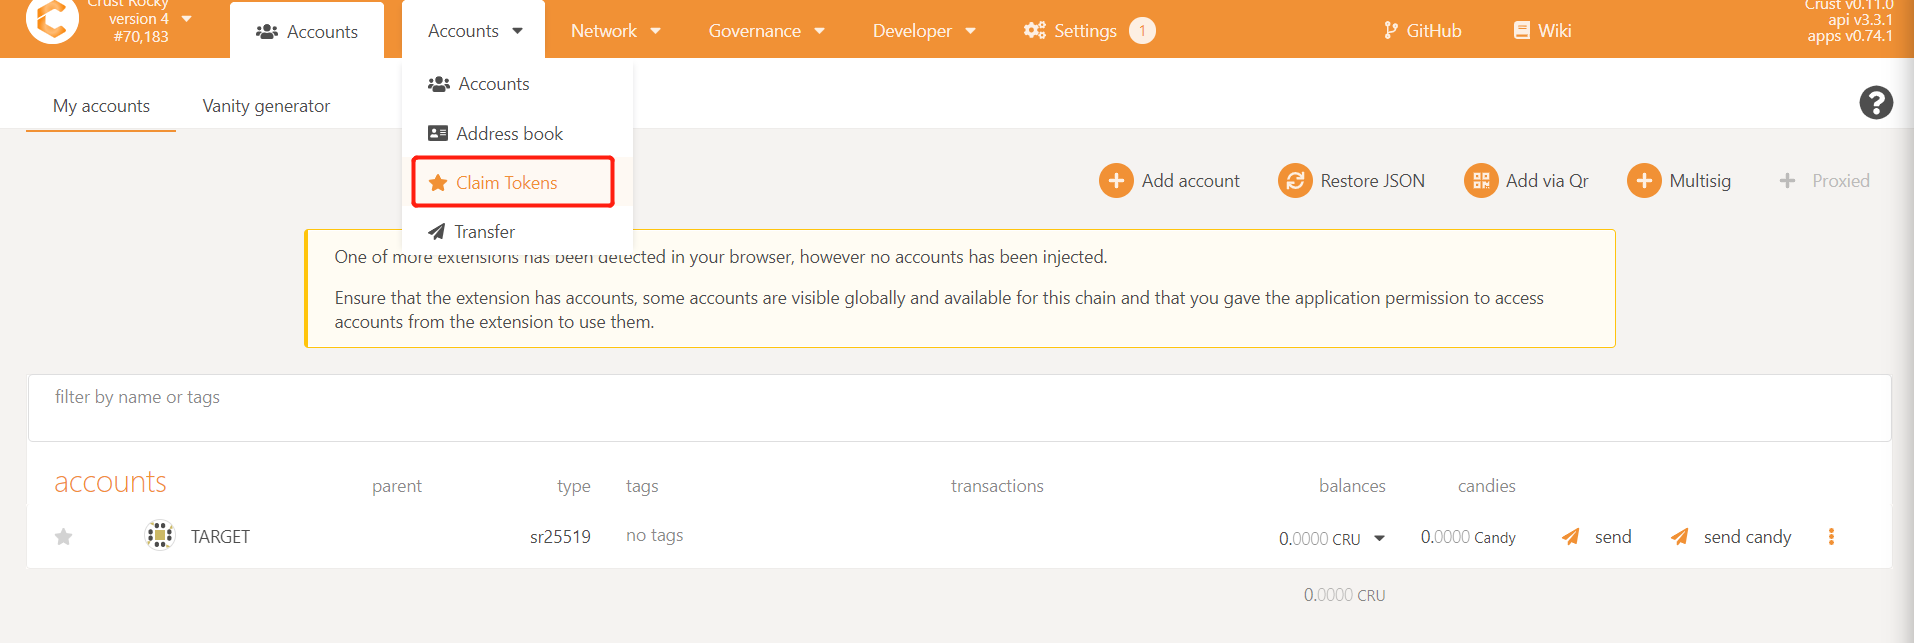
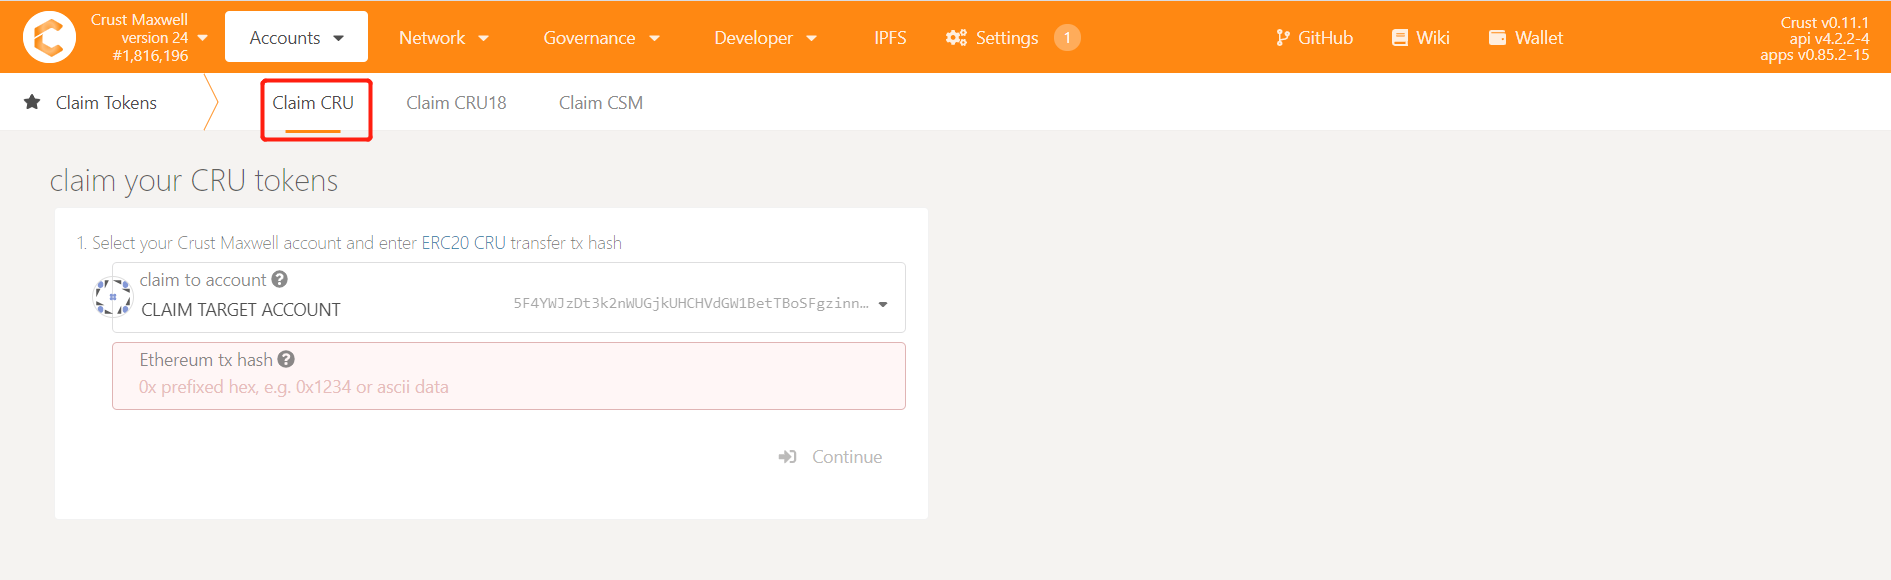
add claim csm and some other update

diff --git a/docs/claimcsm.md b/docs/claimcsm.md
@@ -1,10 +1,10 @@
 ---
-id: claims
-title: Crust Claims
-sidebar_label: Crust Claims
+id: claimCSM
+title: Crust CSM Claim
+sidebar_label: Crust CSM Claim
 ---
 
-If you want to **map ERC20 CRU to Crust Preview Network Maxwell** and participate in the preview network, you follow this tutorial step by step to claim Maxwell CRU.
+CSM (Crust Storage Market) token is designed for Crust Decentralized Storage Market.Serving the Crust storage market,you can map the ERC20 CSM to the Crust Maxwell network in advance for guarantee.Follow this tutorial step by step to claim Maxwell CSM. 
 
 ## Preparation
 
@@ -22,45 +22,45 @@ In order to prevent unknown errors in the claim process, we highly recommend usi
 
 Using an exchange account to sent a transfer (withdrawal) transaction will be invalidated and cause asset loss. <font color='red'>You are responsible for the consequences</font>!
 
-### I. Send CRU Claim Transaction
+### I. Send CSM Claim Transaction
 
-> Please make sure you transfer CRU to the Claim Address, not ETH.
+> Please make sure you transfer CSM to the Claim Address, not ETH or CRU.
 
-First of all, you need to **transfer CRU** to ***Crust Maxwell Claim Address*** on the Ethereum side. Transfering can be done on any wallet side, but you **must pay attention to following points** before transfering CRUs:
+First of all, you need to **transfer CSM** to ***Crust Maxwell Claim Address*** on the Ethereum side. Transfering can be done on any wallet side, but you **must pay attention to following points** before transfering CSM:
 
 1. **⚠ Make sure you have the authority to make signature with the private key of the account (all accounts created by exchanges are not applicable, please use the wallet with private key stored to perform following steps)**
-2. **Confirm the CRU ERC20: [CRUST](https://etherscan.io/token/0x32a7C02e79c4ea1008dD6564b35F131428673c41)**
+2. **Confirm the CSM ERC20: [CSM](https://etherscan.io/token/0x2620638eda99f9e7e902ea24a285456ee9438861)**
 3. ***Crust Maxwell Claim Address***: [0x17a9037cdfb24ffcc13697d03c3bcd4dff34732b](https://etherscan.io/address/0x17a9037cdfb24ffcc13697d03c3bcd4dff34732b)
 
-   ![new claim address](assets/claims/new_claim_addr.png)
+   ![new claim address](assets/claimcsm/new_claim_addr.png)
 
 Please confirm your transfering is successful and make sure it has **at least 6 confirmations**, **copy the hash value of this successful transaction** and do the following steps.
 
 ### II. Verify transactions and bridge tokens
 
-Go to the Claim CRU page of [Crust Apps](https://apps.crust.network/#/claims)
+Go to the Claim CSM page of [Crust Apps](https://apps.crust.network/#/claims/maxwellCsmClaims)
 
-![Apps Claim1](assets/claims/apps_claims1.png)
+![Apps Claim1](assets/claimcsm/apps_claims1.png)
 
 1. Select the account of Maxwell Preview Network that you want to claim
-2. Input the Tx Hash you copied from  [Step I](#i-send-cru-claim-transaction)
+2. Input the Tx Hash you copied from  [Step I](#i-send-csm-claim-transaction)
 3. Click "Continue", this step will wait for a while, backend bridge service will check the legicimacy of your claim transaction. **The network may busy for a while, and you will receive a failure hint, if that, you can wait and try it later.**
 
-![Apps Claims2](assets/claims/apps_claims2.png)
+![Apps Claims2](assets/claimcsm/apps_claims2.png)
 
 ### III. Log in to MyEtherWallet and Connect to your wallet
 
 1. Open [MyEtherWallet](https://www.myetherwallet.com/access-my-wallet):
     - Click 'MEW wallet'
-    - Connect the wallet which you **transfer ERC20 CRU**(The following process will use 'ImToken' and 'MetaMask' as example)
+    - Connect the wallet which you **transfer ERC20 CSM**(The following process will use 'ImToken' and 'MetaMask' as example)
 
-**⚠ Pay Attention, please ensure that the connected wallet address is same as the address where the transaction was successfully sent in [Step I](#i-send-cru-claim-transaction)**(We need to sign the message with the private key of this address)
+**⚠ Pay Attention, please ensure that the connected wallet address is same as the address where the transaction was successfully sent in [Step I](#i-send-csm-claim-transaction)**(We need to sign the message with the private key of this address)
 
-![Connect Wallet1](assets/claims/connect_wallet1.jpg)
+![Connect Wallet1](assets/claimcsm/connect_wallet1.jpg)
 
-![Connect Wallet2](assets/claims/connect_wallet2.jpg)
+![Connect Wallet2](assets/claimcsm/connect_wallet2.jpg)
 
-![Connect Wallet3](assets/claims/connect_wallet3.png)
+![Connect Wallet3](assets/claimcsm/connect_wallet3.png)
 
 2. On the ImToken mobile client, click the *scan icon* in the upper right corner, scan the QR code displayed by MyEtherWallet and authorize
 
@@ -77,7 +77,7 @@ If you use MetaMask, please click `MEW CX` after you access your Wallet
 
 3. After the authorization is successful, you will see the following screen on the MyEtherWallet page, which means your wallet is successfully connected
 
-![Connect Wallet6](assets/claims/connect_wallet6.jpg)
+![Connect Wallet6](assets/claimcsm/connect_wallet6.jpg)
 
 ### IV. Get the Ethereum Signature
 
@@ -85,11 +85,11 @@ Make sure you completed [Step II](#ii-verify-transactions-and-bridge-tokens), th
 
 1. In Crust Apps Claim page，**Click the gray box to copy the text**
 
-![Sign Msg1](assets/claims/sign_msg1.jpg)
+![Sign Msg1](assets/claimcsm/sign_msg1.jpg)
 
 2. In MyEtherWallet page, click **Message** on the left side as shown, select **Sign Message**, and paste the text in the gray box into the text box, click **Sign**
 
-![Sign Msg2](assets/claims/sign_msg2.png)
+![Sign Msg2](assets/claimcsm/sign_msg2.png)
 
 3. There will be a pop-up in the ImToken side, Click "Confirm", **⚠ Please be attention here, At this step, the communication between MyEtherWallet and ImToken may be interrupted and no authorization information will pop up. Please execute** [Step III](#iii-log-in-to-myetherwallet-and-connect-to-your-wallet) again.
 
@@ -100,31 +100,31 @@ If you use MetaMask, you just need to make your sign through Metamask pop-up win
 
 4. Go back to MyEtherWallet, click **Confirm Signing**
 
-![Sign Msg4](assets/claims/sign_msg4.jpg)
+![Sign Msg4](assets/claimcsm/sign_msg4.jpg)
 
 5. When MyEtherWallet shows **Signed Message**, click 'Copy'
 
-![Sign Msg5](assets/claims/sign_msg5.jpg)
+![Sign Msg5](assets/claimcsm/sign_msg5.jpg)
 
-### V. Claim CRUs
+### V. Claim CSM
 
 Go back to **Crust Apps Claims** page, with the **Signed Message** copied in [Step IV](#iv-get-the-ethereum-signature):
 
 1. Paste the signature into the area shown in the image below, and click "Confirm claim". The green area shown as the image below will appear if the claim is recorded on chain.
 
-![Claim Done1](assets/claims/claim_done1.jpg)
+![Claim Done1](assets/claimcsm/claim_done1.jpg)
 
 2. Click to claim
 
-![Claim Done2](assets/claims/claim_done2.jpg)
+![Claim Done2](assets/claimcsm/claim_done2.jpg)
 
 3. Claim Successfully
 
-![Claim Done3](assets/claims/claim_done3.jpg)
+![Claim Done3](assets/claimcsm/claim_done3.jpg)
 
 ## References
 
-The code involved in claim process has been **open source**:
+The code involved in claim CSM process has been **open source**:
 
 1. [Crust Bridge](https://github.com/decloudf/crust-bridge/tree/main/maxwell-claim)
 2. [Crust Claims](https://github.com/crustio/crust/tree/master/cstrml/claims)

diff --git a/website/translated_docs/zh-CN/claimcsm.md b/website/translated_docs/zh-CN/claimcsm.md
@@ -1,20 +1,21 @@
 ---
-id: claims
-title: Crust Claims
-sidebar_label: Crust Claims
+id: claimCSM
+title: Crust CSM Claim
+sidebar_label: Crust CSM Claim
 ---
 
-如果您想将**ERC20的CRU映射到 Crust 预览网 Maxwell**，参与体验预览网的各个功能，您可以通过本教程一步一步学习到如何进行Maxwell CRU的认领。
+CSM(Crust Storage Market)是Crust的存储市场通证。功能主要是服务于 Crust 的存储市场，用户可提前将ERC20的CSM映射到Crust预览网Maxwell进行抵押使用，通过本教程一步一步学习到如何进行Maxwell CSM的认领。
 
 ## 准备工作
 
 为了防止认领的流程出现异常错误，导致您的认领失败，我们推荐了以下几个工具程序来辅助您完成整个认领过程：
 
-> 不用过分担心不熟悉这些工具的使用，我们会在下面的认领步骤中详细阐述每一个工具的使用流程。
+> 不用过分担心不熟悉这些工具的使用，我们会在下面的认领步骤中详细阐述每一个工具的。
 
 1. [MyEtherWallet](https://www.myetherwallet.com/interface/dashboard)
-2. [ImToken](https://token.im/)
+2. [imtoken](https://token.im/)
 3. [Crust Apps](https://apps.crust.network/)
+
 
 ## 步骤
 
@@ -22,31 +23,31 @@ sidebar_label: Crust Claims
 
 使用交易所账户发起转账（提币）交易，均会失效，造成资产损失，<font color='red'>后果自负</font>！
 
-### 一. 发送CRU认领交易
+### 一. 发送CSM认领交易
 
-> 请注意此步骤发送到认领地址的是CRU，不是ETH
+> 请注意此步骤发送到认领地址的是CSM，不是ETH和CRU
 
-首先，您需要在以太坊上向 ***Crust Maxwell认领地址*** 发起一笔**CRU的转账交易**，这个操作可以在任意的钱包端完成，但发起转账之前一定要注意:
+首先，您需要在以太坊上向 ***Crust Maxwell认领地址*** 发起一笔**CSM的转账交易**，这个操作可以在任意的钱包端完成，但发起转账之前一定要注意:
 
 1. **⚠ 您拥有发起交易账户的私钥签名权限（所有交易所创建的账户均不适用, 请转到拥有私钥的钱包进行下列操作）**
-2. **确认CRU ERC20的合约地址：[CRUST](https://etherscan.io/token/0x32a7C02e79c4ea1008dD6564b35F131428673c41)**
+2. **确认CSM ERC20的合约地址：[CSM](https://etherscan.io/token/0x2620638eda99f9e7e902ea24a285456ee9438861)**
 3. ***Crust Maxwell认领地址*** 为：[0x17a9037cdfb24ffcc13697d03c3bcd4dff34732b](https://etherscan.io/address/0x17a9037cdfb24ffcc13697d03c3bcd4dff34732b)
 
-    ![new_claim_addr](assets/claims/new_claim_addr.png)
+    ![new_claim_addr](assets/claimcsm/new_claim_addr.png)
 
 待确认交易成功并且已有**6块以上的confirmations**之后，**复制这笔成功交易的Hash值**，进入到下列步骤。
 
 ### 二. 验证交易和桥接代币
 
-登陆[Crust Apps](https://apps.crust.network/#/claims)的Claim CRU模块
+登陆[Crust Apps](https://apps.crust.network/#/claims/maxwellCsmClaims)的Claim CSM模块
 
-![Apps Claim1](assets/claims/apps_claims1.png)
+![Apps Claim1](assets/claimcsm/apps_claims1.png)
 
 1. 选择您需要认领的Maxwell预览网账户
-2. 填入您[步骤一](#一-发送cru认领交易)复制的Tx Hash值
+2. 填入您[步骤一](#一-发送csm认领交易)复制的Tx Hash值
 3. 点击“继续”，这步*会等待一段时间*，会验证您交易的合法性，在**网络拥堵的情况下也有可能出现认领失败，您只需要再试一次即可**
 
-![Apps Claims2](assets/claims/apps_claims2.png)
+![Apps Claims2](assets/claimcsm/apps_claims2.png)
 
 ### 三. 登陆MyEtherWallet连接钱包
 
@@ -54,23 +55,24 @@ sidebar_label: Crust Claims
     - 点击MEW wallet
     - 连接你**发送交易的钱包**（下列流程以ImToken举例）
 
-**⚠ 这一步必须特别注意，确保连接的钱包地址和[步骤一](#一-发送cru认领交易)中成功发送交易的地址相同**（我们需要用这个地址的私钥进行消息签名）
+**⚠ 这一步必须特别注意，确保连接的钱包地址和[步骤一](#一-发送csm认领交易)中成功发送交易的地址相同**（我们需要用这个地址的私钥进行消息签名）
 
-![Connect Wallet1](assets/claims/connect_wallet1.jpg)
+![Connect Wallet1](assets/claimcsm/connect_wallet1.jpg)
 
-![Connect Wallet2](assets/claims/connect_wallet2.jpg)
+![Connect Wallet2](assets/claimcsm/connect_wallet2.jpg)
 
-![Connect Wallet3](assets/claims/connect_wallet3.png)
+![Connect Wallet3](assets/claimcsm/connect_wallet3.png)
 
 1. 在ImToken的手机端，点击右上角扫码图标，扫描MyEtherWallet显示的二维码并授权MyEtherWallet
 
-![Connect Wallet4](assets/claims/connect_wallet4.jpg)
+![Connect Wallet4](assets/claimcsm/connect_wallet4.jpg)
 
-![Connect Wallet5](assets/claims/connect_wallet5.jpg)
+![Connect Wallet5](assets/claimcsm/connect_wallet5.jpg)
 
 3. 授权成功后，您将会在MyEtherWallet页面看到以下画面，这意味着您的钱包连接成功了
 
-![Connect Wallet6](assets/claims/connect_wallet6.jpg)
+![Connect Wallet6](assets/claimcsm/connect_wallet6.jpg)
+
 
 ### 四. 获取以太坊签名
 
@@ -78,23 +80,23 @@ sidebar_label: Crust Claims
 
 1. 在Crust Apps Claim界面，**点击灰色框复制其中文字**
 
-![Sign Msg1](assets/claims/sign_msg1.jpg)
+![Sign Msg1](assets/claimcsm/sign_msg1.jpg)
 
 2. 在MyEtherWallet界面，如下图所示点击左侧的**Message选项**，选择**Sign Message**，并将灰色框中文字粘贴到对话框中, 点击**Sign**
 
-![Sign Msg2](assets/claims/sign_msg2.png)
+![Sign Msg2](assets/claimcsm/sign_msg2.png)
 
 3. 此时会在ImToken钱包端弹出**授权签名**的提示，请点击“确认”, **⚠ 请注意，这一步有可能出现MyEtherWallet和ImToken通讯中断导致没有弹出授权信息，此时请重新执行**[步骤三](#三-登陆myetherwallet连接钱包)
 
-![Sign Msg3](assets/claims/sign_msg3.jpg)
+![Sign Msg3](assets/claimcsm/sign_msg3.jpg)
 
 4. 在回到MyEtherWallet界面，点击**Confirm Signing**
 
-![Sign Msg4](assets/claims/sign_msg4.jpg)
+![Sign Msg4](assets/claimcsm/sign_msg4.jpg)
 
 5. 此时在MyEtherWallet上会出现**Signed Message**, 点击Copy
 
-![Sign Msg5](assets/claims/sign_msg5.jpg)
+![Sign Msg5](assets/claimcsm/sign_msg5.jpg)
 
 ### 五. 完成认领
 
@@ -103,19 +105,20 @@ sidebar_label: Crust Claims
 
 1. 粘贴以太坊签名到下图所示区域, 点击“确认认领”，如果成功查询到链上有Claim记录则会出现下图所示绿色的提示
 
-![Claim Done1](assets/claims/claim_done1.jpg)
+![Claim Done1](assets/claimcsm/claim_done1.jpg)
 
 2. 点击认领
 
-![Claim Done2](assets/claims/claim_done2.jpg)
+![Claim Done2](assets/claimcsm/claim_done2.jpg)
 
 3. 认领成功
 
-![Claim Done3](assets/claims/claim_done3.jpg)
+![Claim Done3](assets/claimcsm/claim_done3.jpg)
 
 ## 参考
 
-Claims涉及到的代码均**已开源**：
+Claim CSM涉及到的代码均**已开源**：
 
-1. [Crust Maxwell Bridge](https://github.com/decloudf/crust-bridge/tree/main/maxwell-claim)
+1. [Crust Maxwell Bridge](https://github.com/decloudf/crust-bridge/tree/main/maxwell-csm-claim)
 2. [Crust Claims](https://github.com/crustio/crust/tree/master/cstrml/claims)
+

diff --git a/docs/claim-CRU18.md b/docs/claim-CRU18.md
@@ -117,5 +117,5 @@ Go back to **Crust Apps Claims** page, with the **Signed Message** copied in [St
 
 The code involved in claim process has been **open source**:
 
-1. [Crust CRU18 Bridge](https://github.com/decloudf/crust-bridge/tree/main/mainnet-bridge)
+1. [Crust CRU18 Bridge](https://github.com/decloudf/crust-bridge/tree/main/maxwell-cru18-pre-claim)
 2. [Crust Claims](https://github.com/crustio/crust/tree/maxwell/cstrml/claims)

diff --git a/website/translated_docs/zh-CN/claim-CRU18.md b/website/translated_docs/zh-CN/claim-CRU18.md
@@ -108,6 +108,6 @@ sidebar_label: Crust CRU18 Claim
 
 CRU18 Claims涉及到的代码均**已开源**：
 
-1. [Crust CRU18 Bridge](https://github.com/decloudf/crust-bridge/tree/main/mainnet-bridge)
+1. [Crust CRU18 Bridge](https://github.com/decloudf/crust-bridge/tree/main/maxwell-cru18-pre-claim)
 
 2. [Crust Claims](https://github.com/crustio/crust/tree/maxwell/cstrml/claims)

diff --git a/docs/claim-back.md b/docs/claim-back.md
@@ -50,4 +50,4 @@ After performing Step I and II:
 
 The code involved in claim back process has been **open source**:
 
-1. [Crust Bridge](https://github.com/decloudf/crust-bridge)
+1. [Crust Bridge](https://github.com/decloudf/crust-bridge/tree/main/maxwell-claim-back)

diff --git a/website/translated_docs/zh-CN/claim-back.md b/website/translated_docs/zh-CN/claim-back.md
@@ -50,4 +50,4 @@ sidebar_label: Crust Claim Back
 
 转回涉及到的代码**已开源**：
 
-1. [Crust Bridge](https://github.com/decloudf/crust-bridge)
+1. [Crust Bridge](https://github.com/decloudf/crust-bridge/tree/main/maxwell-claim-back)
